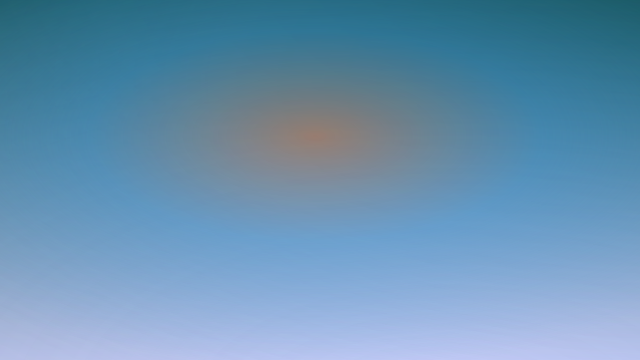
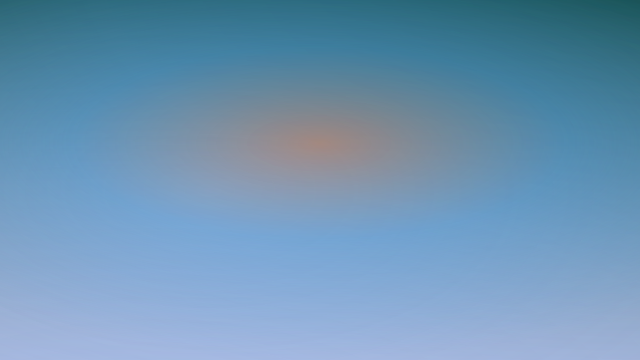
Deploy preview for PR 12 🛫

Changed region(s): [[0.5938, 0.9472, 1.0, 1.0], [0.1562, 0.3972, 0.2812, 0.55]]

diff --git a/pr-preview/pr-12/posts/lessons-from-flask-in-production/index.html b/pr-preview/pr-12/posts/lessons-from-flask-in-production/index.html
@@ -1,6 +1,6 @@
 <!DOCTYPE html><html lang="en" data-astro-cid-sckkx6r4> <head><!-- Page Metadata --><meta charset="UTF-8"><meta name="viewport" content="width=device-width"><meta name="generator" content="Astro v4.2.4"><meta name="description" content="stefan nowak, software engineer based in London, UK"><link rel="canonical" href="https://stefkn.github.io/me/pr-preview/pr-12/posts/lessons-from-flask-in-production/"><title>Lessons from Flask in production</title><!-- Google Fonts --><link rel="preconnect" href="https://fonts.googleapis.com"><link rel="preconnect" href="https://fonts.gstatic.com" crossorigin><link href="https://fonts.googleapis.com/css2?family=IBM+Plex+Mono:ital,wght@0,100;0,200;0,300;0,400;0,500;0,600;0,700;1,100;1,200;1,300;1,400;1,500;1,600;1,700&family=IBM+Plex+Sans:ital,wght@0,100;0,200;0,300;0,400;0,500;0,600;0,700;1,100;1,200;1,300;1,400;1,500;1,600;1,700&display=swap" rel="stylesheet"><!-- Low Priority Global Metadata --><link rel="icon" type="image/png" href="/me/pr-preview/pr-12/favicon.png"><link rel="sitemap" href="/me/pr-preview/pr-12/sitemap-index.xml"><link rel="alternate" type="application/rss+xml" href="/me/pr-preview/pr-12/rss.xml" title="RSS"><!-- Open Graph / Facebook --><meta property="og:type" content="website"><meta property="og:url" content="https://stefkn.github.io/me/pr-preview/pr-12/posts/lessons-from-flask-in-production/"><meta property="og:title" content="Lessons from Flask in production"><meta property="og:description" content="stefan nowak, software engineer based in London, UK"><meta property="og:image" content="https://stefkn.github.io/me/pr-preview/pr-12/generated/art/lessons-from-flask-in-production.png"><meta property="og:image:alt" content="Lessons from Flask in production"><!-- X/Twitter --><meta property="twitter:card" content="summary_large_image"><meta property="twitter:url" content="https://stefkn.github.io/me/pr-preview/pr-12/posts/lessons-from-flask-in-production/"><meta property="twitter:title" content="Lessons from Flask in production"><meta property="twitter:description" content="stefan nowak, software engineer based in London, UK"><meta property="twitter:image" content="https://stefkn.github.io/me/pr-preview/pr-12/generated/art/lessons-from-flask-in-production.png"><meta name="twitter:image:alt" content="Lessons from Flask in production"><meta name="astro-view-transitions-enabled" content="true"><meta name="astro-view-transitions-fallback" content="animate"><link rel="stylesheet" href="/me/pr-preview/pr-12/_astro/index.VyLwYA5J.css" />
-<link rel="stylesheet" href="/me/pr-preview/pr-12/_astro/_slug_.AvvUjB5i.css" /><script type="module" src="/me/pr-preview/pr-12/_astro/hoisted.FUXzdpq_.js"></script>
-<script type="module" src="/me/pr-preview/pr-12/_astro/page.Jay7wAFe.js"></script></head> <body data-astro-cid-sckkx6r4> <a id="main-icon-link" href="/me/pr-preview/pr-12/" data-astro-cid-sckkx6r4> <img id="site-icon" src="/me/pr-preview/pr-12/favicon.png" data-astro-cid-sckkx6r4> </a> <div class="navmenu-container" id="nav-menu" data-astro-cid-sckkx6r4> <div data-astro-cid-sckkx6r4> <div id="top-nav-links" class="nav-links" data-astro-cid-sckkx6r4> <a href="/me/pr-preview/pr-12/work" class="nav-link" data-astro-cid-sckkx6r4>work</a> <a href="/me/pr-preview/pr-12/posts" class="nav-link" data-astro-cid-sckkx6r4>posts</a> </div> </div> <button id="theme-toggle" aria-label="Toggle light/dark mode" data-astro-cid-x3pjskd3> <svg id="sun-icon" xmlns="http://www.w3.org/2000/svg" width="24" height="24" viewBox="0 0 24 24" fill="white" stroke="white" stroke-width="2" stroke-linecap="round" stroke-linejoin="round" class="feather feather-sun hidden" data-astro-cid-x3pjskd3><circle cx="12" cy="12" r="5" data-astro-cid-x3pjskd3></circle><line x1="12" y1="1" x2="12" y2="3" data-astro-cid-x3pjskd3></line><line fill="white" x1="12" y1="21" x2="12" y2="23" data-astro-cid-x3pjskd3></line><line x1="4.22" y1="4.22" x2="5.64" y2="5.64" data-astro-cid-x3pjskd3></line><line x1="18.36" y1="18.36" x2="19.78" y2="19.78" data-astro-cid-x3pjskd3></line><line x1="1" y1="12" x2="3" y2="12" data-astro-cid-x3pjskd3></line><line x1="21" y1="12" x2="23" y2="12" data-astro-cid-x3pjskd3></line><line x1="4.22" y1="19.78" x2="5.64" y2="18.36" data-astro-cid-x3pjskd3></line><line x1="18.36" y1="5.64" x2="19.78" y2="4.22" data-astro-cid-x3pjskd3></line></svg> <svg id="moon-icon" xmlns="http://www.w3.org/2000/svg" width="24" height="24" viewBox="0 0 24 24" fill="black" stroke="black" stroke-width="2" stroke-linecap="round" stroke-linejoin="round" class="feather feather-moon hidden" data-astro-cid-x3pjskd3><path d="M21 12.79A9 9 0 1 1 11.21 3 7 7 0 0 0 21 12.79z" data-astro-cid-x3pjskd3></path></svg> </button>    </div>  <div class="hero-art" data-art-config="{&#34;seed&#34;:1289067675,&#34;width&#34;:1920,&#34;height&#34;:1080,&#34;background&#34;:&#34;#07413a&#34;,&#34;backgroundBottom&#34;:&#34;#d3d1fa&#34;,&#34;accent&#34;:&#34;#f17331&#34;,&#34;palette&#34;:[&#34;#07413a&#34;,&#34;#309be7&#34;,&#34;#d3d1fa&#34;,&#34;#f17331&#34;],&#34;neon&#34;:[&#34;#0096d6&#34;,&#34;#1499ff&#34;,&#34;#529dff&#34;,&#34;#8fb0ff&#34;],&#34;fields&#34;:[{&#34;id&#34;:&#34;f0&#34;,&#34;cx&#34;:1.1003727405332029,&#34;cy&#34;:-0.16896952548995614,&#34;rx&#34;:2.174972215318121,&#34;ry&#34;:1.8729176508262753,&#34;colors&#34;:[&#34;#07413a&#34;,&#34;#309be7&#34;],&#34;opacity&#34;:0.266493626916781,&#34;driftAmp&#34;:0.4726079177809879,&#34;driftSpeed&#34;:0.10144984308863059,&#34;driftSpeedY&#34;:0.23564763814210893,&#34;hueDrift&#34;:0.8331324205501005,&#34;phase&#34;:2.329471152052332},{&#34;id&#34;:&#34;f1&#34;,&#34;cx&#34;:1.2555613671429455,&#34;cy&#34;:0.22941096918657422,&#34;rx&#34;:2.043725485447794,&#34;ry&#34;:1.5496161011978984,&#34;colors&#34;:[&#34;#309be7&#34;,&#34;#d3d1fa&#34;],&#34;opacity&#34;:0.20932725705206393,&#34;driftAmp&#34;:0.3430621516192332,&#34;driftSpeed&#34;:0.1218221996887587,&#34;driftSpeedY&#34;:0.1762940767267719,&#34;hueDrift&#34;:0.5904939778614788,&#34;phase&#34;:3.230296869802163},{&#34;id&#34;:&#34;f2&#34;,&#34;cx&#34;:0.7003887956961989,&#34;cy&#34;:1.1336642517708242,&#34;rx&#34;:2.752876253449358,&#34;ry&#34;:2.3329013822134583,&#34;colors&#34;:[&#34;#d3d1fa&#34;,&#34;#07413a&#34;],&#34;opacity&#34;:0.2025242578005418,&#34;driftAmp&#34;:0.2621637435629964,&#34;driftSpeed&#34;:0.07380532669834793,&#34;driftSpeedY&#34;:0.1643692722800188,&#34;hueDrift&#34;:0.4714739525457844,&#34;phase&#34;:4.591631137718689},{&#34;id&#34;:&#34;f3&#34;,&#34;cx&#34;:0.49245842278469354,&#34;cy&#34;:0.3781386433169246,&#34;rx&#34;:0.7933539614547044,&#34;ry&#34;:0.6565051713259891,&#34;colors&#34;:[&#34;#f17331&#34;,&#34;#309be7&#34;],&#34;opacity&#34;:0.41099528106860816,&#34;driftAmp&#34;:0.20134071042295545,&#34;driftSpeed&#34;:0.12434882851084694,&#34;driftSpeedY&#34;:0.1339026705850847,&#34;hueDrift&#34;:0.7997247202787547,&#34;phase&#34;:6.066524292801538}]}" data-astro-cid-lpwor2hp> <img class="hero-art-img" src="/me/pr-preview/pr-12/generated/art/lessons-from-flask-in-production-hero.png" alt="Lessons from Flask in production" width="1920" height="1080" data-astro-cid-lpwor2hp> <canvas class="hero-art-canvas" aria-hidden="true" data-astro-cid-lpwor2hp></canvas> <canvas class="hero-art-canvas3d" aria-hidden="true" data-astro-cid-lpwor2hp></canvas> </div>   <header class="article-header" data-astro-cid-egg7nqdx> <h1 data-astro-cid-egg7nqdx>Lessons from Flask in production</h1> <p class="lede" data-astro-cid-egg7nqdx>Thoughts from working on a monolithic Flask webapp for about five years.</p> <div class="meta" data-astro-cid-egg7nqdx> <span data-astro-cid-egg7nqdx>Stefan Nowak</span> <span class="sep" aria-hidden="true" data-astro-cid-egg7nqdx>·</span> <time datetime="2024-02-01T00:00:00.000Z" data-astro-cid-egg7nqdx>Thu Feb 01 2024</time> <span class="sep" aria-hidden="true" data-astro-cid-egg7nqdx>·</span> <span data-astro-cid-egg7nqdx>15 min read</span> </div> <ul class="tags" data-astro-cid-egg7nqdx> <li class="tag" data-astro-cid-egg7nqdx>web</li><li class="tag" data-astro-cid-egg7nqdx>python</li><li class="tag" data-astro-cid-egg7nqdx>flask</li> </ul> </header> <div id="article-content" data-astro-cid-egg7nqdx> <button id="toggle-hide-side-mobile" type="button" aria-controls="article-aside" aria-expanded="false" data-astro-cid-egg7nqdx>
+<link rel="stylesheet" href="/me/pr-preview/pr-12/_astro/_slug_.AvvUjB5i.css" /><script type="module" src="/me/pr-preview/pr-12/_astro/hoisted.OuhGiDZe.js"></script>
+<script type="module" src="/me/pr-preview/pr-12/_astro/page.Jay7wAFe.js"></script></head> <body data-astro-cid-sckkx6r4> <a id="main-icon-link" href="/me/pr-preview/pr-12/" data-astro-cid-sckkx6r4> <img id="site-icon" src="/me/pr-preview/pr-12/favicon.png" data-astro-cid-sckkx6r4> </a> <div class="navmenu-container" id="nav-menu" data-astro-cid-sckkx6r4> <div data-astro-cid-sckkx6r4> <div id="top-nav-links" class="nav-links" data-astro-cid-sckkx6r4> <a href="/me/pr-preview/pr-12/work" class="nav-link" data-astro-cid-sckkx6r4>work</a> <a href="/me/pr-preview/pr-12/posts" class="nav-link" data-astro-cid-sckkx6r4>posts</a> </div> </div> <button id="theme-toggle" aria-label="Toggle light/dark mode" data-astro-cid-x3pjskd3> <svg id="sun-icon" xmlns="http://www.w3.org/2000/svg" width="24" height="24" viewBox="0 0 24 24" fill="white" stroke="white" stroke-width="2" stroke-linecap="round" stroke-linejoin="round" class="feather feather-sun hidden" data-astro-cid-x3pjskd3><circle cx="12" cy="12" r="5" data-astro-cid-x3pjskd3></circle><line x1="12" y1="1" x2="12" y2="3" data-astro-cid-x3pjskd3></line><line fill="white" x1="12" y1="21" x2="12" y2="23" data-astro-cid-x3pjskd3></line><line x1="4.22" y1="4.22" x2="5.64" y2="5.64" data-astro-cid-x3pjskd3></line><line x1="18.36" y1="18.36" x2="19.78" y2="19.78" data-astro-cid-x3pjskd3></line><line x1="1" y1="12" x2="3" y2="12" data-astro-cid-x3pjskd3></line><line x1="21" y1="12" x2="23" y2="12" data-astro-cid-x3pjskd3></line><line x1="4.22" y1="19.78" x2="5.64" y2="18.36" data-astro-cid-x3pjskd3></line><line x1="18.36" y1="5.64" x2="19.78" y2="4.22" data-astro-cid-x3pjskd3></line></svg> <svg id="moon-icon" xmlns="http://www.w3.org/2000/svg" width="24" height="24" viewBox="0 0 24 24" fill="black" stroke="black" stroke-width="2" stroke-linecap="round" stroke-linejoin="round" class="feather feather-moon hidden" data-astro-cid-x3pjskd3><path d="M21 12.79A9 9 0 1 1 11.21 3 7 7 0 0 0 21 12.79z" data-astro-cid-x3pjskd3></path></svg> </button>    </div>  <div class="hero-art" data-art-config="{&#34;seed&#34;:1289067675,&#34;width&#34;:1920,&#34;height&#34;:1080,&#34;background&#34;:&#34;#07413a&#34;,&#34;backgroundBottom&#34;:&#34;#d3d1fa&#34;,&#34;accent&#34;:&#34;#f17331&#34;,&#34;palette&#34;:[&#34;#07413a&#34;,&#34;#309be7&#34;,&#34;#d3d1fa&#34;,&#34;#f17331&#34;],&#34;neon&#34;:[&#34;#0096d6&#34;,&#34;#1499ff&#34;,&#34;#529dff&#34;,&#34;#8fb0ff&#34;],&#34;fields&#34;:[{&#34;id&#34;:&#34;f0&#34;,&#34;cx&#34;:1.1003727405332029,&#34;cy&#34;:-0.16896952548995614,&#34;rx&#34;:2.174972215318121,&#34;ry&#34;:1.8729176508262753,&#34;colors&#34;:[&#34;#07413a&#34;,&#34;#309be7&#34;],&#34;opacity&#34;:0.266493626916781,&#34;driftAmp&#34;:0.4726079177809879,&#34;driftSpeed&#34;:0.10144984308863059,&#34;driftSpeedY&#34;:0.23564763814210893,&#34;hueDrift&#34;:0,&#34;phase&#34;:4.785385416544971},{&#34;id&#34;:&#34;f1&#34;,&#34;cx&#34;:0.24149369727820158,&#34;cy&#34;:1.2555613671429455,&#34;rx&#34;:2.0470582268899307,&#34;ry&#34;:1.671228754054755,&#34;colors&#34;:[&#34;#309be7&#34;,&#34;#d3d1fa&#34;],&#34;opacity&#34;:0.19034031936898826,&#34;driftAmp&#34;:0.36865451410412786,&#34;driftSpeed&#34;:0.08791864548576996,&#34;driftSpeedY&#34;:0.19677526607876644,&#34;hueDrift&#34;:0,&#34;phase&#34;:3.5590207532828053},{&#34;id&#34;:&#34;f2&#34;,&#34;cx&#34;:0.3299827938899398,&#34;cy&#34;:0.5282354289665818,&#34;rx&#34;:2.400291596772149,&#34;ry&#34;:2.2618817636510355,&#34;colors&#34;:[&#34;#d3d1fa&#34;,&#34;#07413a&#34;],&#34;opacity&#34;:0.2752876253449358,&#34;driftAmp&#34;:0.511438780510798,&#34;driftSpeed&#34;:0.09151455468032509,&#34;driftSpeedY&#34;:0.08689278801903129,&#34;hueDrift&#34;:0,&#34;phase&#34;:0.9637936207985973},{&#34;id&#34;:&#34;f3&#34;,&#34;cx&#34;:0.498886951082386,&#34;cy&#34;:0.39798511574044826,&#34;rx&#34;:0.8557732773479074,&#34;ry&#34;:0.5924584227846935,&#34;colors&#34;:[&#34;#f17331&#34;,&#34;#309be7&#34;],&#34;opacity&#34;:0.37930199124384667,&#34;driftAmp&#34;:0.1752439889870584,&#34;driftSpeed&#34;:0.12195155139779672,&#34;driftSpeedY&#34;:0.14912798521108928,&#34;hueDrift&#34;:0,&#34;phase&#34;:5.1107875660506314}]}" data-astro-cid-lpwor2hp> <img class="hero-art-img" src="/me/pr-preview/pr-12/generated/art/lessons-from-flask-in-production-hero.png" alt="Lessons from Flask in production" width="1920" height="1080" data-astro-cid-lpwor2hp> <canvas class="hero-art-canvas" aria-hidden="true" data-astro-cid-lpwor2hp></canvas> <canvas class="hero-art-canvas3d" aria-hidden="true" data-astro-cid-lpwor2hp></canvas> </div>   <header class="article-header" data-astro-cid-egg7nqdx> <h1 data-astro-cid-egg7nqdx>Lessons from Flask in production</h1> <p class="lede" data-astro-cid-egg7nqdx>Thoughts from working on a monolithic Flask webapp for about five years.</p> <div class="meta" data-astro-cid-egg7nqdx> <span data-astro-cid-egg7nqdx>Stefan Nowak</span> <span class="sep" aria-hidden="true" data-astro-cid-egg7nqdx>·</span> <time datetime="2024-02-01T00:00:00.000Z" data-astro-cid-egg7nqdx>Thu Feb 01 2024</time> <span class="sep" aria-hidden="true" data-astro-cid-egg7nqdx>·</span> <span data-astro-cid-egg7nqdx>15 min read</span> </div> <ul class="tags" data-astro-cid-egg7nqdx> <li class="tag" data-astro-cid-egg7nqdx>web</li><li class="tag" data-astro-cid-egg7nqdx>python</li><li class="tag" data-astro-cid-egg7nqdx>flask</li> </ul> </header> <div id="article-content" data-astro-cid-egg7nqdx> <button id="toggle-hide-side-mobile" type="button" aria-controls="article-aside" aria-expanded="false" data-astro-cid-egg7nqdx>
 table of contents
 </button> <aside id="article-aside" data-astro-cid-egg7nqdx> <nav class="toc" data-astro-cid-xvrfupwn> <ul data-astro-cid-xvrfupwn> <li data-astro-cid-zekvapgs> <a href="#introduction" onclick="window.lenis.scrollTo('#introduction')" data-astro-cid-zekvapgs> Introduction </a>  </li> <li data-astro-cid-zekvapgs> <a href="#common-pitfalls" onclick="window.lenis.scrollTo('#common-pitfalls')" data-astro-cid-zekvapgs> Common pitfalls </a> <ul data-astro-cid-zekvapgs> <li data-astro-cid-zekvapgs> <a href="#chonky-view-functions" onclick="window.lenis.scrollTo('#chonky-view-functions')" data-astro-cid-zekvapgs> Chonky view functions </a>  </li> <li data-astro-cid-zekvapgs> <a href="#mutation-on-get" onclick="window.lenis.scrollTo('#mutation-on-get')" data-astro-cid-zekvapgs> Mutation on GET </a>  </li> <li data-astro-cid-zekvapgs> <a href="#observability-monitoring-and-logging" onclick="window.lenis.scrollTo('#observability-monitoring-and-logging')" data-astro-cid-zekvapgs> Observability, monitoring and logging </a>  </li> <li data-astro-cid-zekvapgs> <a href="#slow-calls-in-views" onclick="window.lenis.scrollTo('#slow-calls-in-views')" data-astro-cid-zekvapgs> Slow calls in views </a>  </li> <li data-astro-cid-zekvapgs> <a href="#orm-usage-patterns" onclick="window.lenis.scrollTo('#orm-usage-patterns')" data-astro-cid-zekvapgs> ORM usage patterns </a>  </li> <li data-astro-cid-zekvapgs> <a href="#jinja2-macro-rabbit-holes" onclick="window.lenis.scrollTo('#jinja2-macro-rabbit-holes')" data-astro-cid-zekvapgs> Jinja2 macro rabbit holes </a>  </li> <li data-astro-cid-zekvapgs> <a href="#excessive-logic-in-templates" onclick="window.lenis.scrollTo('#excessive-logic-in-templates')" data-astro-cid-zekvapgs> Excessive logic in templates </a>  </li> <li data-astro-cid-zekvapgs> <a href="#storing-large-data-structures-in-templates" onclick="window.lenis.scrollTo('#storing-large-data-structures-in-templates')" data-astro-cid-zekvapgs> Storing large data structures in templates (!?!) </a>  </li> <li data-astro-cid-zekvapgs> <a href="#i18n-headaches" onclick="window.lenis.scrollTo('#i18n-headaches')" data-astro-cid-zekvapgs> i18n headaches </a>  </li> <li data-astro-cid-zekvapgs> <a href="#non-standardised-error-handling" onclick="window.lenis.scrollTo('#non-standardised-error-handling')" data-astro-cid-zekvapgs> Non-standardised error handling </a>  </li> <li data-astro-cid-zekvapgs> <a href="#batteries-not-included" onclick="window.lenis.scrollTo('#batteries-not-included')" data-astro-cid-zekvapgs> Batteries not included </a>  </li>  </ul> </li>  </ul> <svg class="toc-progress" xmlns="http://www.w3.org/2000/svg" data-astro-cid-xvrfupwn> <path class="toc-marker" fill="none" stroke="#ff27a7" stroke-width="4" stroke-dashoffset="1" stroke-linecap="round" stroke-linejoin="round" data-astro-cid-xvrfupwn></path> </svg> </nav>   </aside> <main id="main-wrapper" class="wrapper article" data-astro-cid-egg7nqdx> <h2 id="introduction">Introduction</h2>
 <p>Anyone slightly interested in web development and software has probably heard of Django, one of the most popular web frameworks in the world. However, you may <em>not</em> have heard of <a href="https://flask.palletsprojects.com/en/3.0.x/">Flask</a>, which is a more lightweight web framework for Python. It’s roughly analagous to Django, but is smaller and leaves a lot more up to the end user – it self-identifies as a “microframework” which allows the user to integrate their own tools and libraries to best suit their use case. This means you need to choose your own ORM, templating language, authentication, etc., from the wider Flask ecosystem – which can be either a blessing or a curse.</p>

diff --git a/pr-preview/pr-12/_astro/hoisted.OuhGiDZe.js b/pr-preview/pr-12/_astro/hoisted.OuhGiDZe.js
@@ -1,0 +1,132 @@
+import"./ViewTransitions.astro_astro_type_script_index_0_lang.T1cABFxu.js";import"./index.PDhEm6KS.js";document.addEventListener("astro:page-load",()=>{var t=document.querySelector("main.wrapper");if(t){var a=t.querySelectorAll("p");a.forEach(function(e){e.getElementsByTagName("img").length===1&&(e.style.width="100%",e.style.gridColumn="1 / 4")})}const c=document.getElementById("toggle-hide-side-mobile"),o=document.getElementById("article-aside");if(c&&o){const e=()=>{const r=o.classList.contains("open");c.textContent=r?"hide table of contents":"table of contents",c.setAttribute("aria-expanded",String(r))};c.addEventListener("click",()=>{o.classList.toggle("open"),e()}),e()}});document.addEventListener("astro:page-load",()=>{const t=new WeakMap,a=new WeakMap;function c(){const e=document.querySelector("path.toc-marker"),r=Array.from(document.querySelectorAll("nav.toc a"));if(!r.length)return;const i=[];let n=10;r.forEach((s,h)=>{const l=s.offsetLeft,u=s.offsetTop,d=s.offsetHeight;h===0?(t.set(s,0),i.push("M",String(l),String(u),"L",String(l),String(u+d))):(n!==l&&i.push("L",String(n),String(u)),i.push("L",String(l),String(u)),e&&e.setAttribute("d",i.join(" ")),t.set(s,e.getTotalLength()),i.push("L",String(l),String(u+d))),n=l,e.setAttribute("d",i.join(" ")),a.set(s,e.getTotalLength())})}function o(){function e(){if(!document.querySelector("path.toc-marker"))return;const n=document.querySelector("path.toc-marker"),s=n.getTotalLength();let h=document.querySelectorAll("a.active"),l=s,u=0;h=document.querySelectorAll("a.active"),h.forEach(d=>{l=Math.min(l,t.get(d)),u=Math.max(u,a.get(d))}),n.style.display=h.length?"inline":"none",n.setAttribute("stroke-dasharray",`1 ${l} ${u-l} ${s}`)}function r(){if(!document.querySelector("nav.toc"))return;new ResizeObserver(()=>{c(),e()}).observe(document.querySelector("nav.toc"))}const i=new IntersectionObserver(n=>{n.forEach(s=>{if(!document.querySelector("path.toc-marker"))return;const h=s.target;if(!h)return;const l=h.getAttribute("id"),u=document.querySelector(`nav.toc li a[href="#${l}"]`);if(!u)return;const d=s.intersectionRatio>0?"add":"remove",f=document.querySelectorAll("a.active").length===1;if(d==="remove"&&f){document.querySelectorAll("a.active")[0].classList.remove("active");return}u.classList[d]("active"),e()})});r(),document.querySelectorAll("#main-wrapper>h2,#main-wrapper>h3,#main-wrapper>h4,#main-wrapper>h5,#main-wrapper>section>h2").forEach(n=>{i.observe(n)})}window.visualViewport.width>930&&(c(),o())});const M=.25,$=`#version 300 es
+void main() {
+  vec2 p = vec2((gl_VertexID == 1) ? 3.0 : -1.0, (gl_VertexID == 2) ? 3.0 : -1.0);
+  gl_Position = vec4(p, 0.0, 1.0);
+}`,z=`#version 300 es
+precision highp float;
+out vec4 outColor;
+uniform vec2 u_resolution;
+uniform float u_time;
+uniform vec3 u_colors[4];
+uniform vec3 u_accent;
+uniform float u_alpha;
+uniform float u_scroll;
+
+float hash(float n) {
+  return fract(sin(n) * 43758.5453123);
+}
+
+vec3 blobPos(int i, float t) {
+  float fi = float(i);
+  vec3 base = vec3(
+    (hash(fi * 1.7) - 0.5) * 5.0,
+    (hash(fi * 3.9) - 0.5) * 3.4,
+    hash(fi * 5.1) * 3.5 - 0.5
+  );
+  vec3 drift = vec3(
+    sin(t * (0.05 + 0.03 * hash(fi)) + fi * 1.3),
+    cos(t * (0.04 + 0.03 * hash(fi * 2.0)) + fi * 2.7),
+    sin(t * (0.03 + 0.02 * hash(fi * 3.0)) + fi * 3.9)
+  ) * 0.4;
+  return base + drift;
+}
+
+float blobRadius(int i) {
+  return 0.28 + 0.34 * hash(float(i) * 7.1);
+}
+
+float map(vec3 p, float t) {
+  float v = 0.0;
+  for (int i = 0; i < 7; i++) {
+    vec3 c = blobPos(i, t);
+    float r = blobRadius(i);
+    vec3 d = p - c;
+    v += (r * r) / max(dot(d, d), 1e-4);
+  }
+  return v;
+}
+
+int nearestBlob(vec3 p, float t) {
+  int best = 0;
+  float bestD = 1e10;
+  for (int i = 0; i < 7; i++) {
+    float d = dot(p - blobPos(i, t), p - blobPos(i, t));
+    if (d < bestD) {
+      bestD = d;
+      best = i;
+    }
+  }
+  return best;
+}
+
+void main() {
+  vec2 uv = (gl_FragCoord.xy - 0.5 * u_resolution.xy) / u_resolution.y;
+  float t = u_time;
+
+  float sc = clamp(u_scroll / 600.0, 0.0, 1.5);
+  vec3 ro = vec3(
+    sin(t * 0.08) * 0.6 + sc * 0.9,
+    cos(t * 0.06) * 0.4 - sc * 0.6,
+    -3.5 + sc * 1.6
+  );
+  vec3 rd = normalize(vec3(uv, 1.5));
+
+  float CELL = 0.2;
+  float thresh = 1.2;
+  vec3 col = vec3(0.0);
+  float trans = 1.0;
+
+  vec3 p = ro;
+  for (int s = 0; s < 80; s++) {
+    vec3 q = floor(p / CELL) * CELL + 0.5 * CELL;
+    float f = map(q, t);
+    float density = smoothstep(thresh, thresh + 1.0, f);
+    if (density > 0.003) {
+      vec3 n = vec3(0.0);
+      for (int i = 0; i < 7; i++) {
+        vec3 c = blobPos(i, t);
+        float r = blobRadius(i);
+        vec3 d = q - c;
+        float d2 = dot(d, d);
+        n += (r * r / (d2 * d2)) * d;
+      }
+      n = normalize(n + 1e-4);
+      vec3 L = normalize(vec3(-0.5, 0.4, 1.0));
+      vec3 viewDir = -rd;
+      vec3 halfVec = normalize(L + viewDir);
+      float diff = clamp(dot(n, L), 0.0, 1.0);
+      float spec = pow(max(dot(n, halfVec), 0.0), 28.0);
+      float rim = pow(1.0 - max(dot(n, viewDir), 0.0), 3.0);
+
+      float shadeT = clamp((f - thresh) / 2.5, 0.0, 1.0);
+      float jit = hash(dot(q, vec3(127.1, 311.7, 74.7)));
+      shadeT = clamp(shadeT + (jit - 0.5) * 1.4, 0.0, 1.0);
+      float fi = shadeT * 3.0;
+      int i0 = int(fi);
+      int i1 = min(i0 + 1, 3);
+      vec3 bcol = mix(u_colors[i0], u_colors[i1], fract(fi));
+      float brightJit = hash(dot(q, vec3(269.5, 183.3, 421.7)));
+      vec3 vcol =
+        bcol * (0.4 + 0.9 * diff) * (0.8 + 0.4 * brightJit) +
+        vec3(1.0) * spec * 0.45 +
+        vec3(1.0) * rim * 0.28;
+      float accentPhase = sin(t * 0.07 + dot(q, vec3(3.7, 5.3, 7.1)));
+      float accentMask = smoothstep(0.86, 0.97, accentPhase);
+      vcol = mix(vcol, u_accent, accentMask * 0.6);
+      float lum = dot(vcol, vec3(0.299, 0.587, 0.114));
+      vcol *= min(1.0, 0.72 / max(lum, 0.001));
+
+      float depth = length(q - ro);
+      vcol *= 1.0 - smoothstep(2.0, 8.0, depth) * 0.5;
+
+      float alpha = density * 0.22;
+      col += trans * vcol * alpha;
+      trans *= (1.0 - alpha);
+      if (trans < 0.02) break;
+    }
+    p += rd * CELL * 0.5;
+  }
+
+  col *= u_alpha;
+  outColor = vec4(col, 1.0);
+}`;function P(t){const a=t.replace("#","");return[parseInt(a.slice(0,2),16)/255,parseInt(a.slice(2,4),16)/255,parseInt(a.slice(4,6),16)/255]}function I(t,a,c){const o=t.createShader(a);return o?(t.shaderSource(o,c),t.compileShader(o),t.getShaderParameter(o,t.COMPILE_STATUS)?o:(console.error("[hero3d] shader compile error:",t.getShaderInfoLog(o)),t.deleteShader(o),null)):null}function O(t,a,c){const o=t.createProgram();return o?(t.attachShader(o,a),t.attachShader(o,c),t.linkProgram(o),t.getProgramParameter(o,t.LINK_STATUS)?o:(console.error("[hero3d] program link error:",t.getProgramInfoLog(o)),t.deleteProgram(o),null)):null}function U(t,a,c,o){const e=t.getContext("webgl2",{alpha:!0,antialias:!1,powerPreference:"low-power"});if(!e)return null;const r=I(e,e.VERTEX_SHADER,$),i=I(e,e.FRAGMENT_SHADER,z);if(!r||!i)return null;const n=O(e,r,i);if(!n)return null;e.useProgram(n);const s={resolution:e.getUniformLocation(n,"u_resolution"),time:e.getUniformLocation(n,"u_time"),colors:e.getUniformLocation(n,"u_colors[0]"),accent:e.getUniformLocation(n,"u_accent"),alpha:e.getUniformLocation(n,"u_alpha"),scroll:e.getUniformLocation(n,"u_scroll")},h=[];for(let f=0;f<4;f++){const m=a[f]??"#000000",[S,x,D]=P(m);h.push(S,x,D)}e.uniform3fv(s.colors,new Float32Array(h));const[l,u,d]=P(c);return e.uniform3f(s.accent,l,u,d),e.uniform1f(s.alpha,o),e.disable(e.BLEND),{resize(f,m){const S=Math.max(1,Math.round(f*M)),x=Math.max(1,Math.round(m*M));t.width=S,t.height=x,e.viewport(0,0,S,x),e.uniform2f(s.resolution,S,x)},render(f,m){e.useProgram(n),e.uniform1f(s.time,f),e.uniform1f(s.scroll,m),e.drawArrays(e.TRIANGLES,0,3)}}}function E(t,a,c){const o=t.replace("#","");let e=parseInt(o.slice(0,2),16)/255,r=parseInt(o.slice(2,4),16)/255,i=parseInt(o.slice(4,6),16)/255;const n=Math.max(e,r,i),s=Math.min(e,r,i),h=(n+s)/2,l=n-s;if(l>1e-4){const u=h>.5?l/(2-n-s):l/(n+s);let d=n===e?(r-i)/l+(r<i?6:0):n===r?(i-e)/l+2:(e-r)/l+4;d=d*60+a,d=(d%360+360)%360;const f=(1-Math.abs(2*h-1))*u,m=f*(1-Math.abs(d/60%2-1)),S=h-f/2;d<60?(e=f,r=m,i=0):d<120?(e=m,r=f,i=0):d<180?(e=0,r=f,i=m):d<240?(e=0,r=m,i=f):d<300?(e=m,r=0,i=f):(e=f,r=0,i=m),e=(e+S)*255,r=(r+S)*255,i=(i+S)*255}else e*=255,r*=255,i*=255;return`rgba(${Math.round(e)}, ${Math.round(r)}, ${Math.round(i)}, ${c})`}let w=null,b=null,v=null,p=null,g=null,y=null,L=null,A=!0;const H=window.matchMedia("(prefers-reduced-motion: reduce)").matches;function q(){w!=null&&(cancelAnimationFrame(w),w=null)}function _(){!H&&A&&!document.hidden&&b!=null?w==null&&(w=requestAnimationFrame(T)):q()}function C(){if(!v||!g||!b)return;const t=b.querySelector(".hero-art-img"),a=t?t.offsetWidth:g.width,c=t&&t.offsetHeight?t.offsetHeight:Math.round(a*(g.height/g.width)),o=a,e=c;if(v.style.width=`${a}px`,v.style.height=`${c}px`,v.width=o,v.height=e,y){const r=b.querySelector(".hero-art-canvas3d");r&&(r.style.width=`${a}px`,r.style.height=`${c}px`,y.resize(o,e))}}function R(t){if(!v||!p||!g)return;const a=v.width,c=v.height;p.clearRect(0,0,a,c);const o=p.createLinearGradient(0,0,0,c);o.addColorStop(0,g.background),o.addColorStop(1,g.backgroundBottom),p.fillStyle=o,p.fillRect(0,0,a,c);for(const e of g.fields){const r=e.cx+e.driftAmp*Math.sin(t*e.driftSpeed+e.phase),i=e.cy+e.driftAmp*Math.cos(t*e.driftSpeedY+e.phase*1.3),n=t*e.hueDrift,s=r*a,h=i*c,l=e.rx*a,u=e.ry*c,d=e.colors[1]??e.colors[0],f=e.colors[e.colors.length-1];p.save(),p.translate(s,h),p.scale(1,u/l);const m=p.createRadialGradient(0,0,0,0,0,l);m.addColorStop(0,E(e.colors[0],n,e.opacity)),m.addColorStop(.45,E(d,n,e.opacity*.75)),m.addColorStop(1,E(f,n,0)),p.fillStyle=m,p.beginPath(),p.arc(0,0,l,0,Math.PI*2),p.fill(),p.restore()}}function T(t){const a=t/1e3;R(a),y&&y.render(a,window.scrollY),b&&!b.classList.contains("is-animated")&&b.classList.add("is-animated"),w=requestAnimationFrame(T)}function k(){const t=document.querySelector(".hero-art");if(!t){q(),L&&(L.disconnect(),L=null),b=null,v=null,p=null,g=null,y=null;return}if(t.dataset.bound)return;t.dataset.bound="true";const a=t.getAttribute("data-art-config");if(!a||(b=t,g=JSON.parse(a),v=t.querySelector(".hero-art-canvas"),p=v?v.getContext("2d"):null,!v||!p))return;y=null;const c=t.querySelector(".hero-art-canvas3d");c&&(y=U(c,g.neon,g.accent,.9)),L&&L.disconnect(),A=!0,L=new IntersectionObserver(e=>{A=e[0]?.isIntersecting??!0,_()});const o=t.querySelector(".hero-art-img")??t;L.observe(o),q(),C(),R(0),y&&y.render(0,window.scrollY),b.classList.add("is-animated"),_()}document.addEventListener("astro:page-load",k);document.addEventListener("visibilitychange",_);window.addEventListener("resize",()=>{b&&C()});k();
